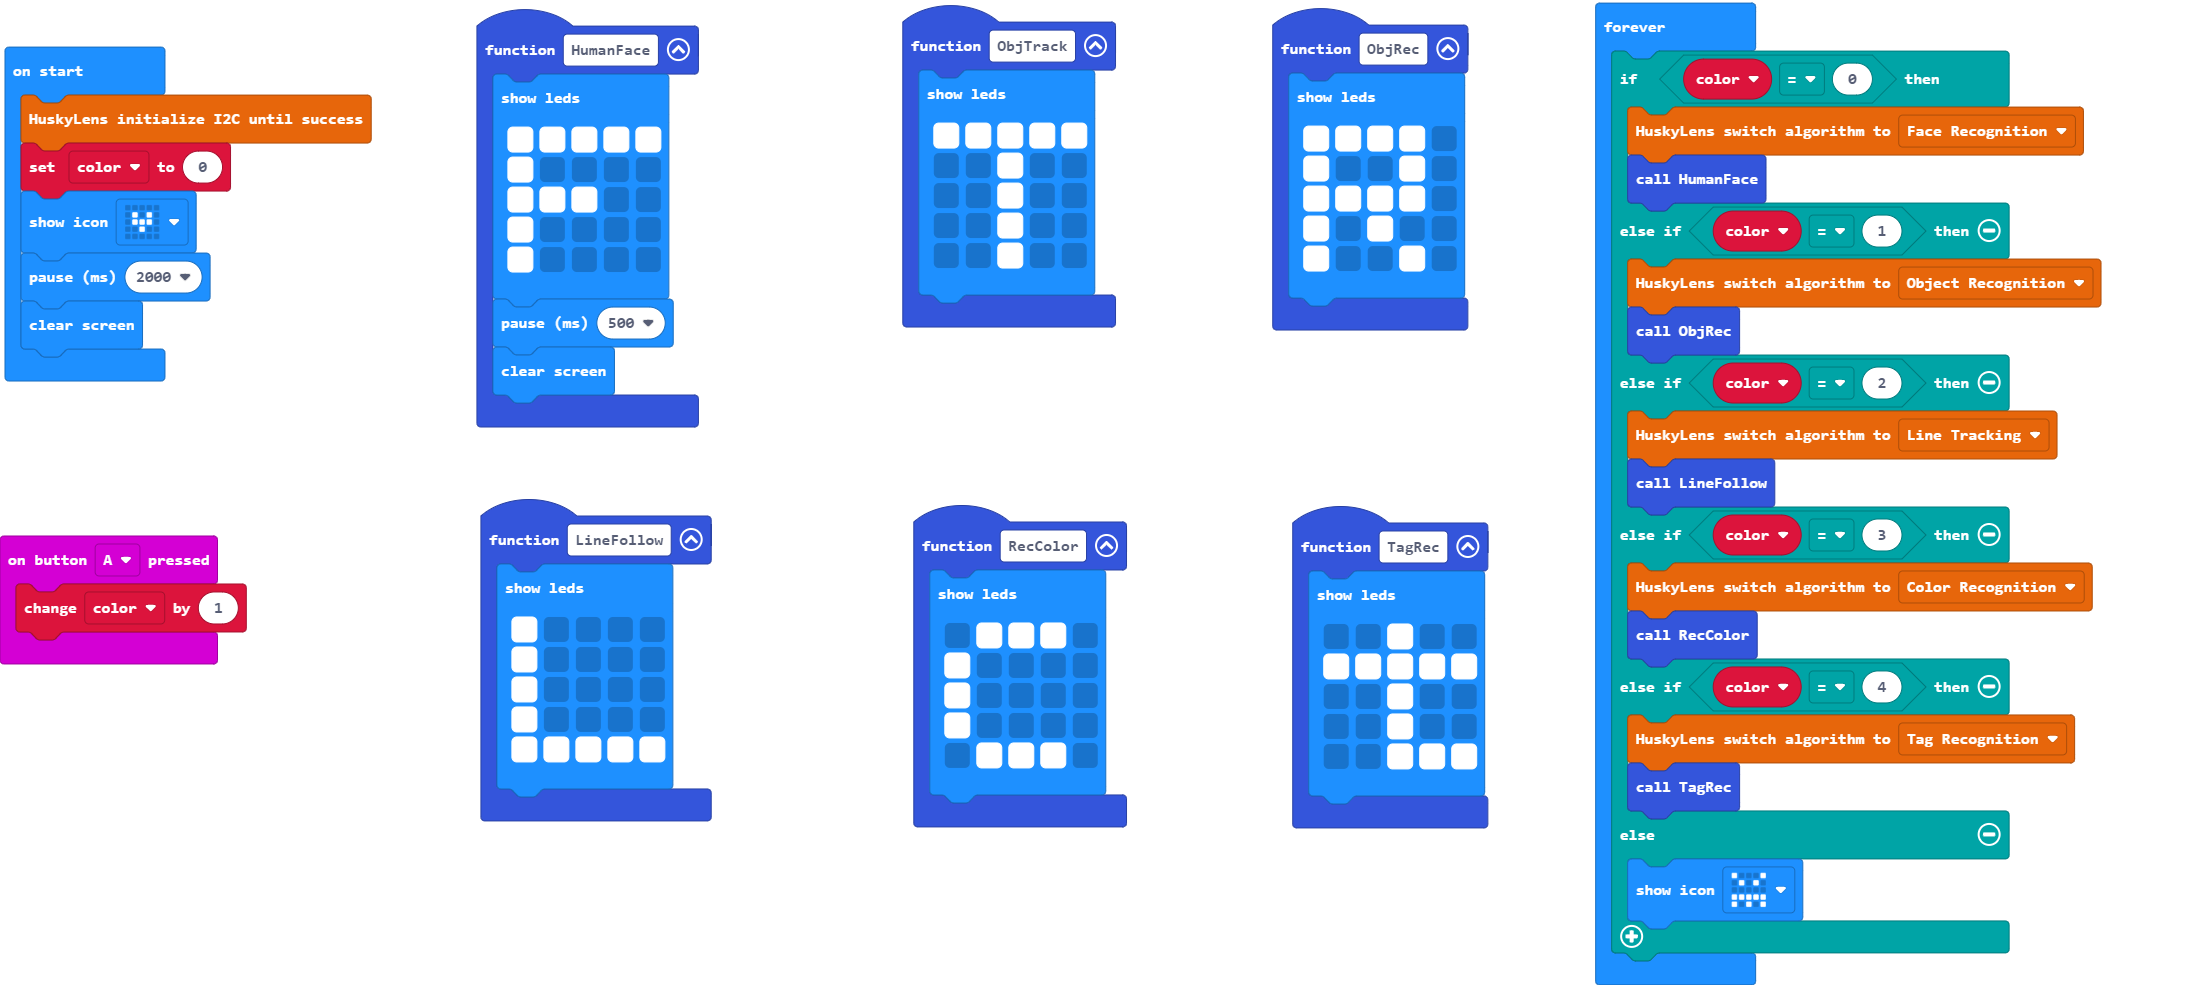
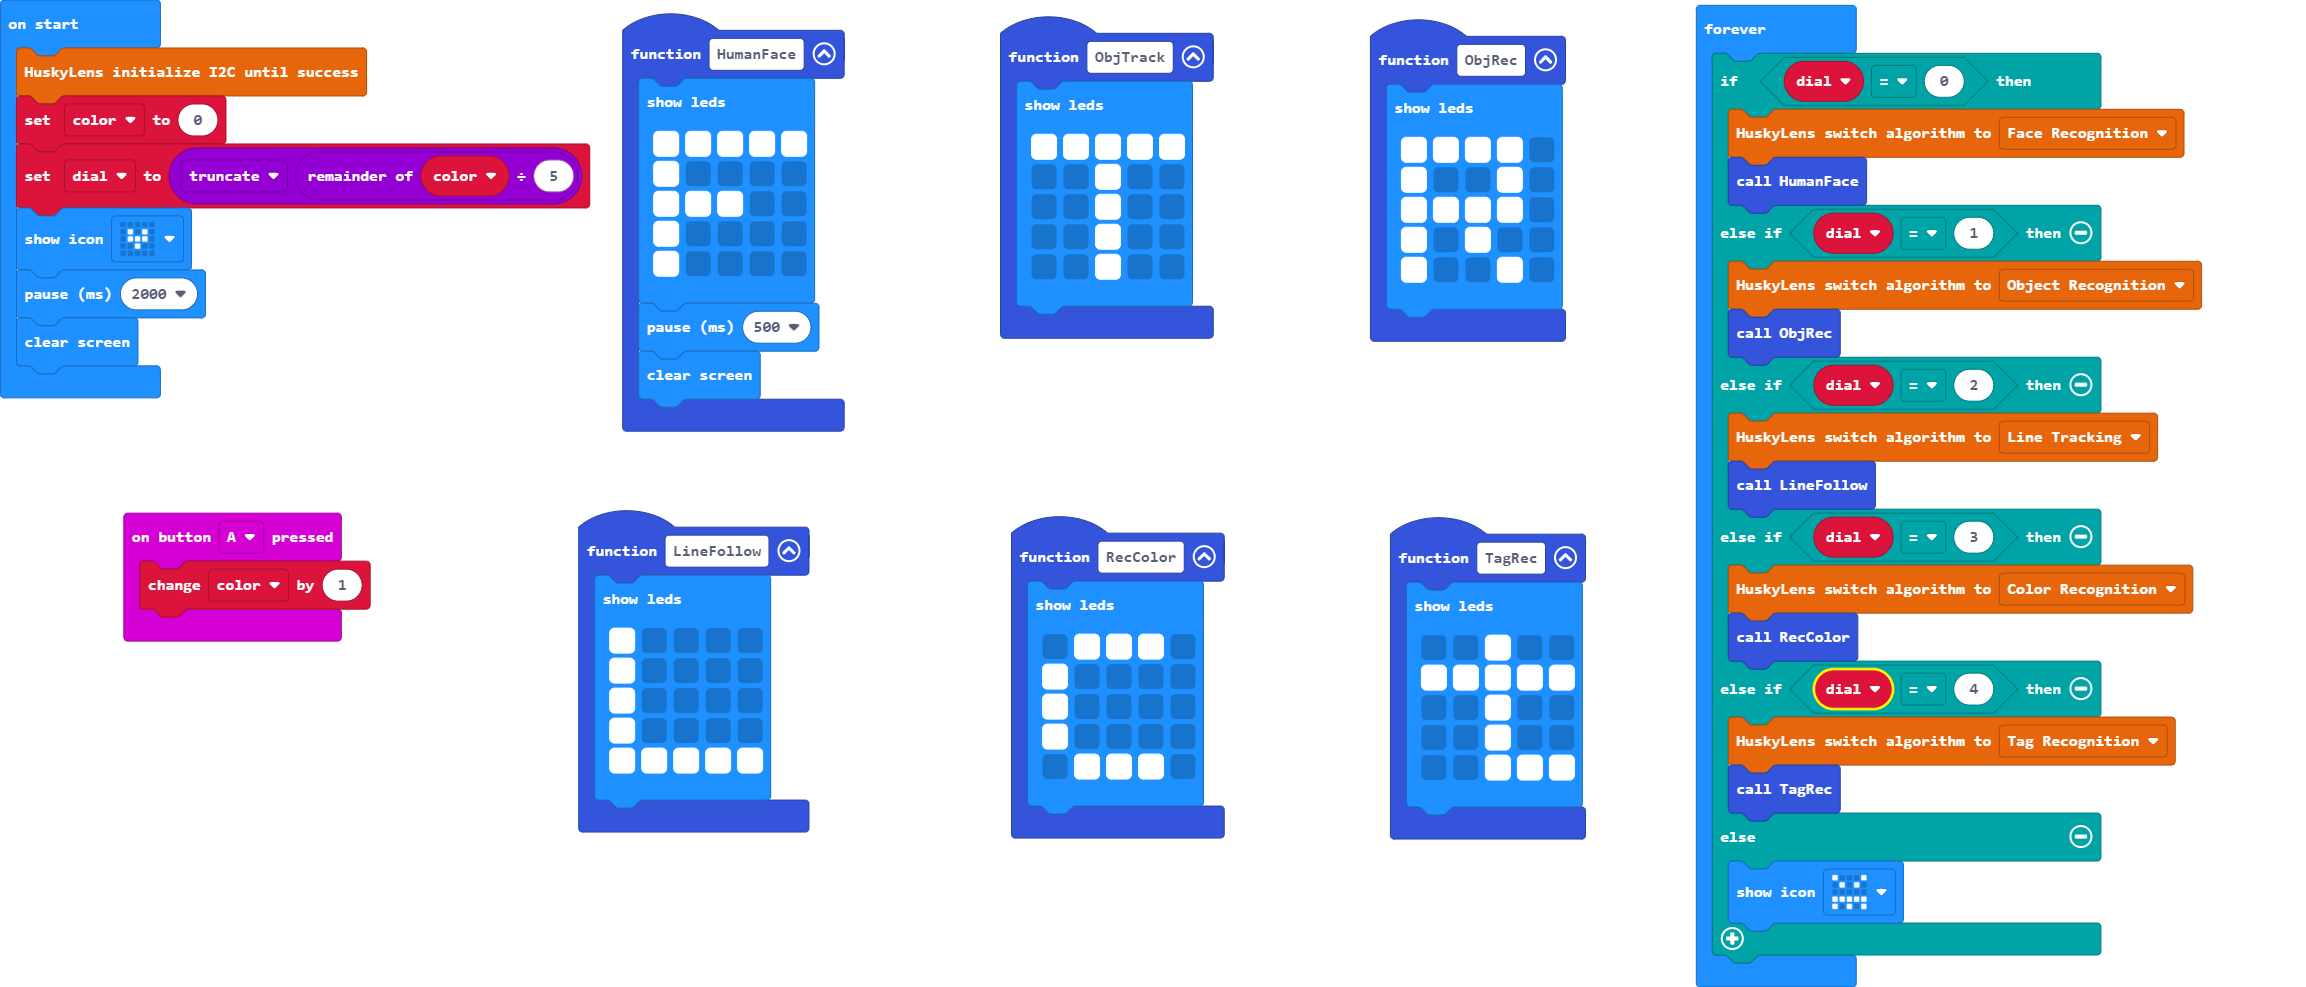
Update main.blocks, main.ts

diff --git a/main.ts b/main.ts
@@ -59,23 +59,24 @@ function ObjTrack () {
 }
 huskylens.initI2c()
 let color2 = 0
+let dial = Math.trunc(color2 % 5)
 basic.showIcon(IconNames.SmallHeart)
 basic.pause(2000)
 basic.clearScreen()
 basic.forever(function () {
-    if (color2 == 0) {
+    if (dial == 0) {
         huskylens.initMode(protocolAlgorithm.ALGORITHM_FACE_RECOGNITION)
         HumanFace()
-    } else if (color2 == 1) {
+    } else if (dial == 1) {
         huskylens.initMode(protocolAlgorithm.ALGORITHM_OBJECT_RECOGNITION)
         ObjRec()
-    } else if (color2 == 2) {
+    } else if (dial == 2) {
         huskylens.initMode(protocolAlgorithm.ALGORITHM_LINE_TRACKING)
         LineFollow()
-    } else if (color2 == 3) {
+    } else if (dial == 3) {
         huskylens.initMode(protocolAlgorithm.ALGORITHM_COLOR_RECOGNITION)
         RecColor()
-    } else if (color2 == 4) {
+    } else if (dial == 4) {
         huskylens.initMode(protocolAlgorithm.ALGORITHM_TAG_RECOGNITION)
         TagRec()
     } else {
